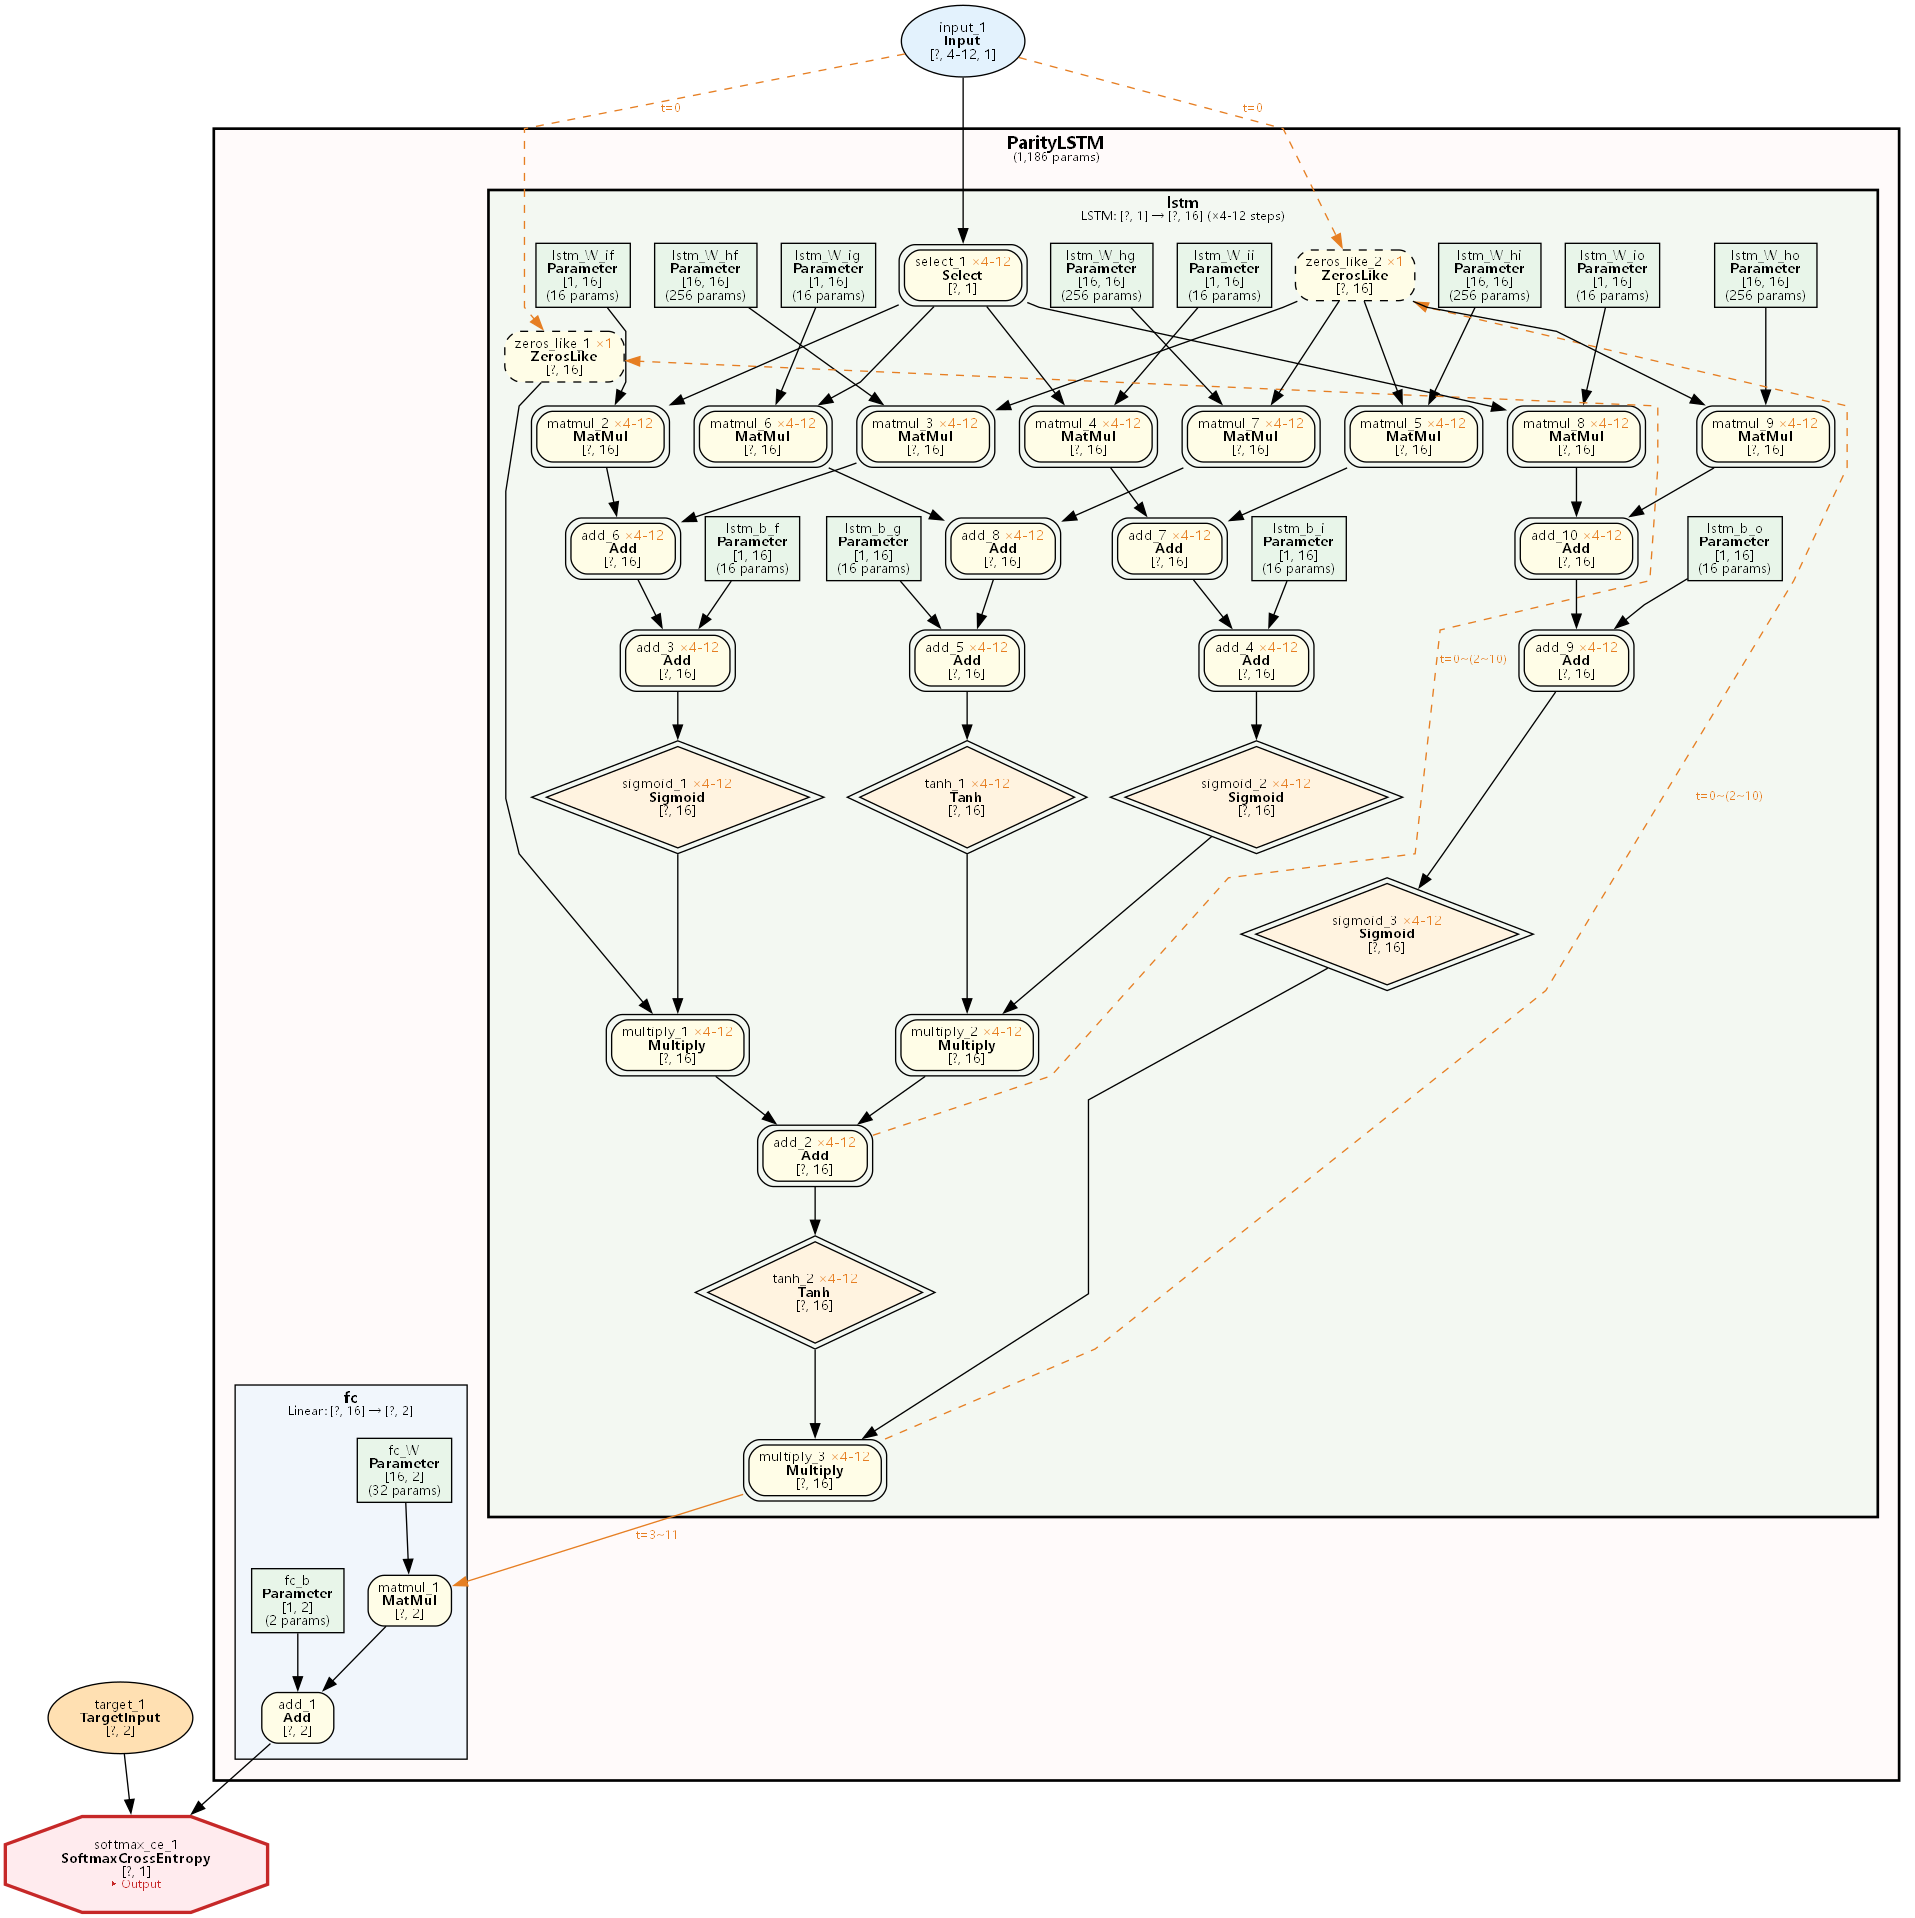
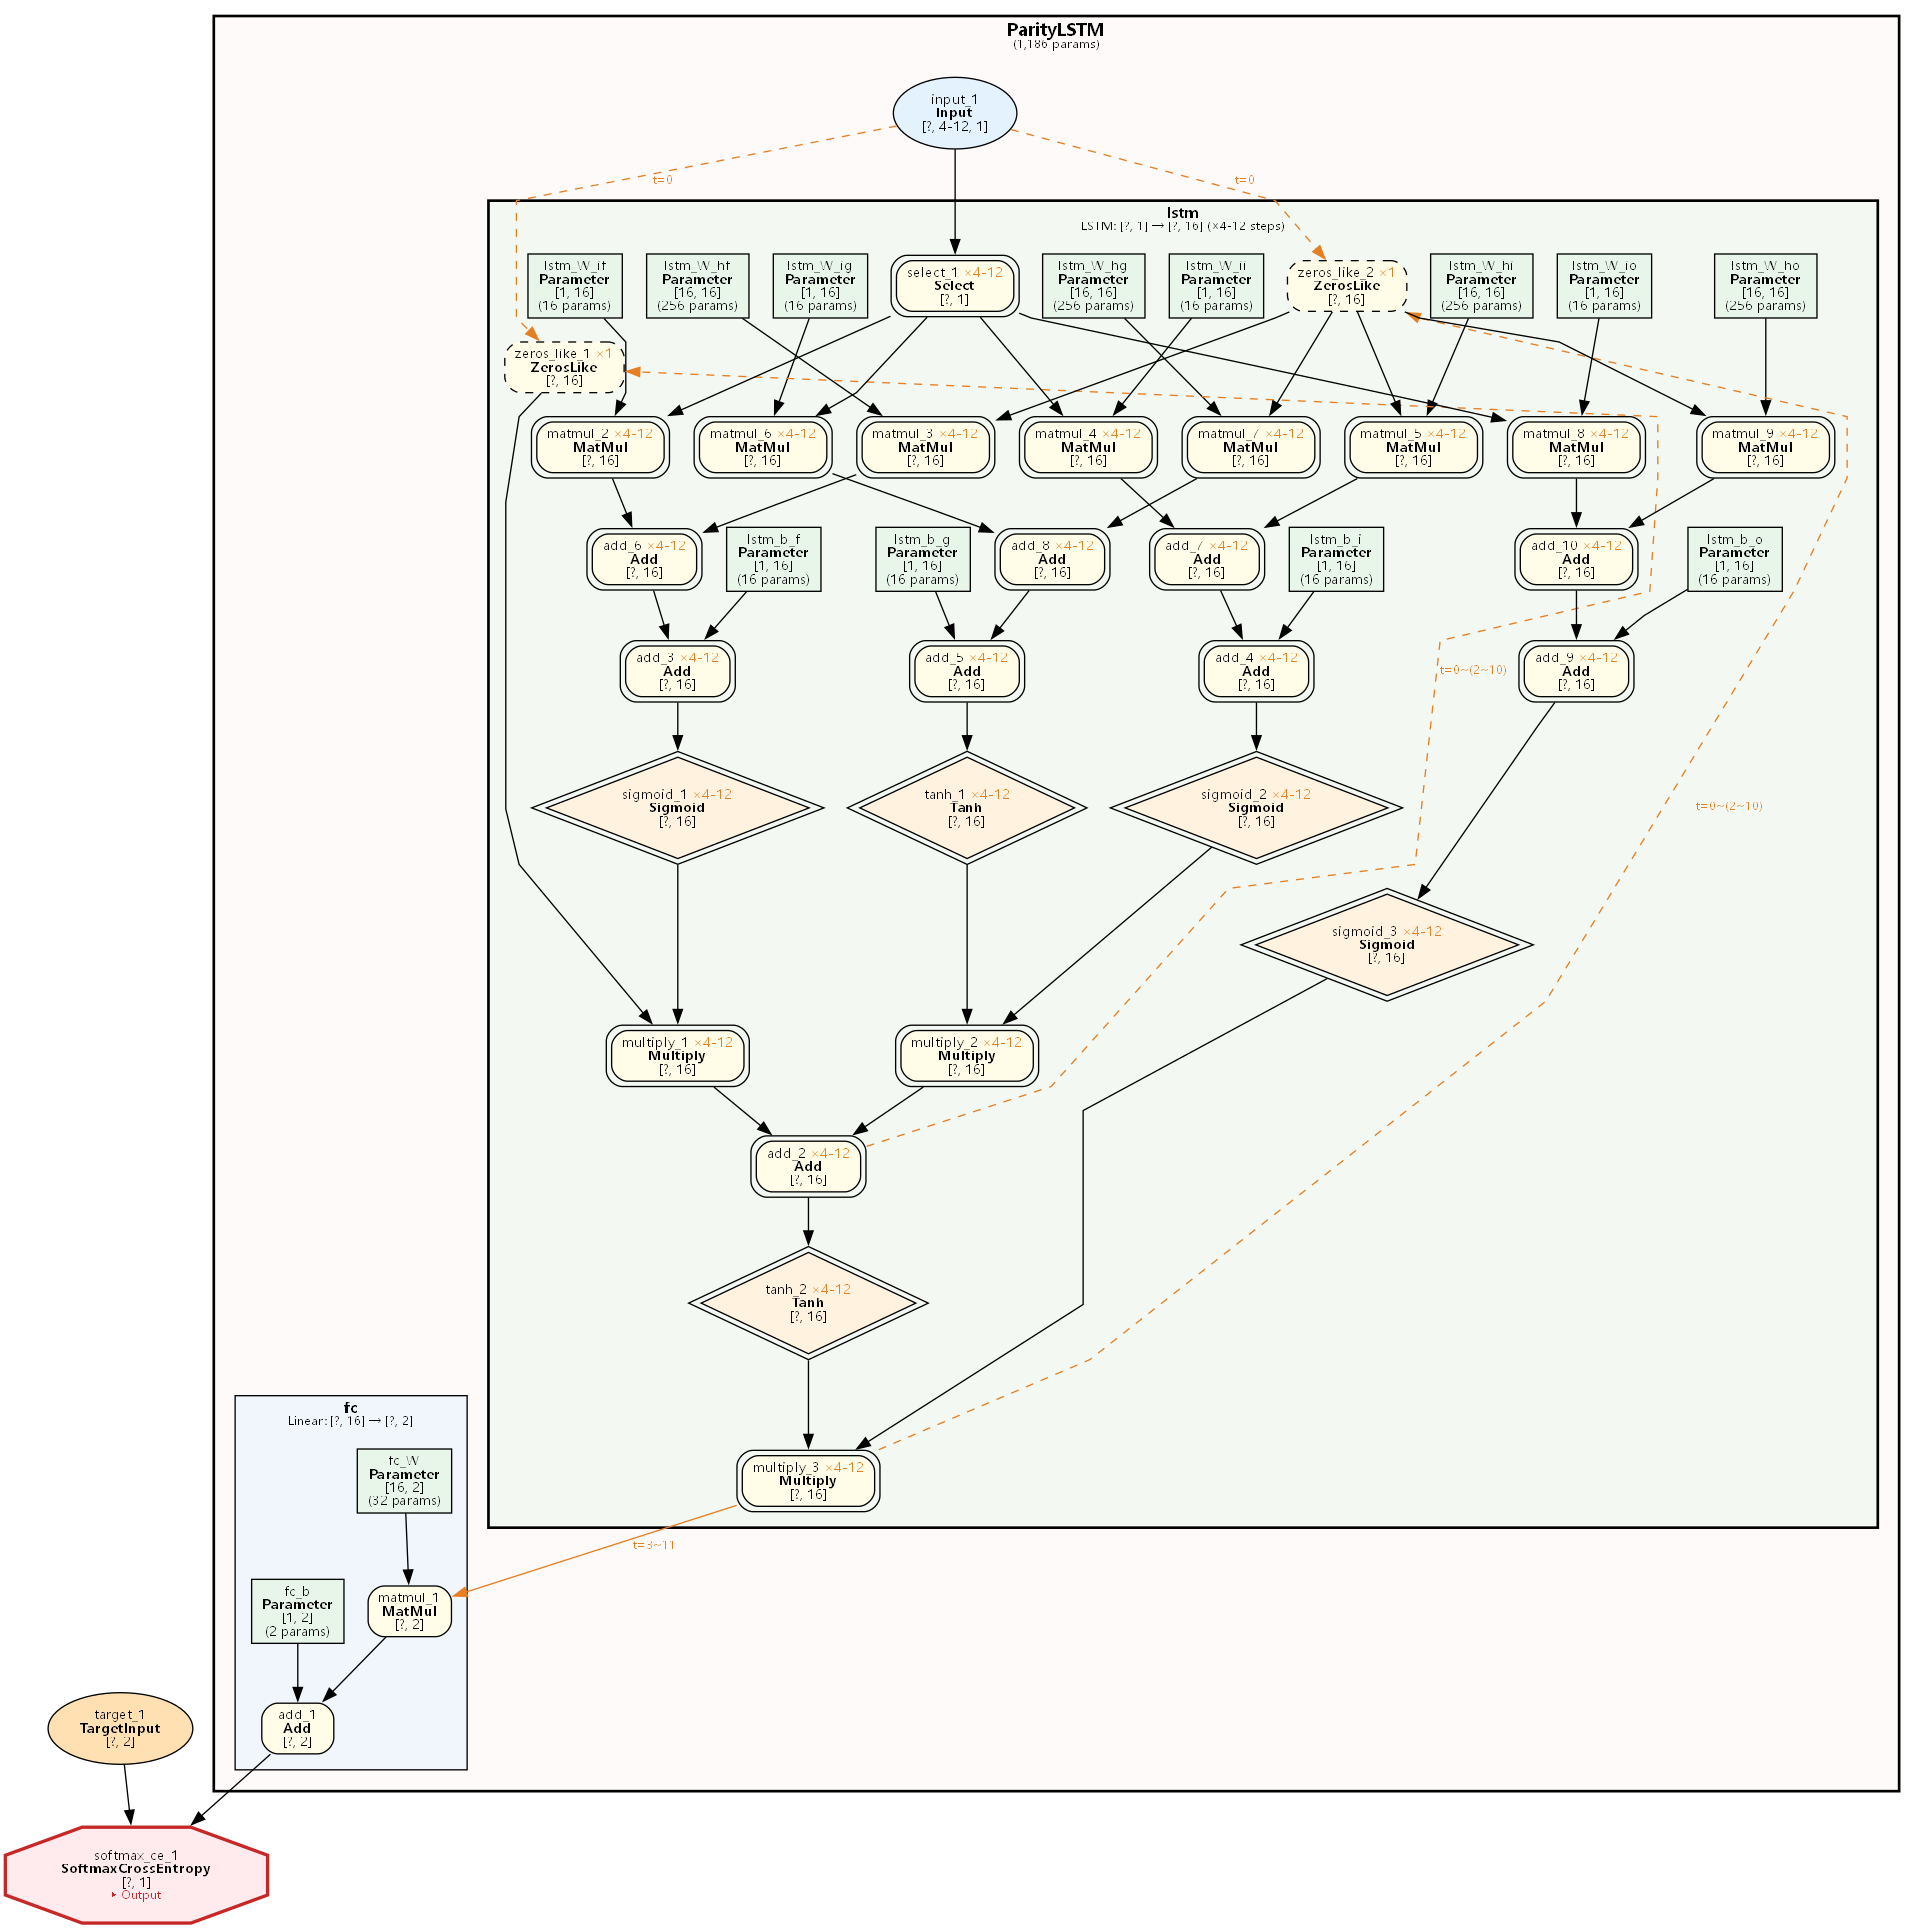
fix(vis): 修复 RNN/LSTM/GRU 场景 Input 节点未归入模型 scope 的 bug
推断算法构建 node_children 和迭代推断时排除 rnn_hidden_ids 中的
折叠隐藏节点，避免其干扰叶子节点（如 Input）的模型归属判定。

diff --git a/src/nn/var.rs b/src/nn/var.rs
@@ -989,6 +989,10 @@ impl Var {
         if !model_cluster_indices.is_empty() {
             let mut node_children: HashMap<u64, Vec<u64>> = HashMap::new();
             for snode in &snapshot.nodes {
+                // 被 RNN 折叠隐藏的节点不参与推断
+                if rnn_hidden_ids.contains(&snode.id.0) {
+                    continue;
+                }
                 for pid in &snode.parent_ids {
                     node_children.entry(pid.0).or_default().push(snode.id.0);
                 }
@@ -998,7 +1002,9 @@ impl Var {
                 let mut changed = false;
                 for snode in &snapshot.nodes {
                     let nid = snode.id.0;
-                    if node_to_model.contains_key(&nid) {
+                    if node_to_model.contains_key(&nid)
+                        || rnn_hidden_ids.contains(&nid)
+                    {
                         continue;
                     }
 
@@ -1006,6 +1012,7 @@ impl Var {
                         let parent_models: Vec<Option<&str>> = snode
                             .parent_ids
                             .iter()
+                            .filter(|p| !rnn_hidden_ids.contains(&p.0))
                             .map(|p| node_to_model.get(&p.0).map(|s| s.as_str()))
                             .collect();
                         if parent_models.iter().all(|m| m.is_some()) {
